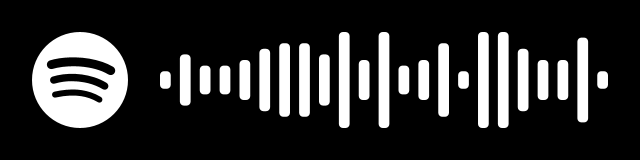
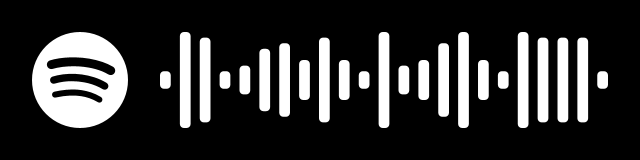
Need picture to show

diff --git a/Curretnly Working/barcodeOut.html b/Curretnly Working/barcodeOut.html
@@ -31,7 +31,7 @@
       <p>The playlist is ready!
         Scan the barcode with your mobile Spotify app to go listen to it!
       </p>
-      <img src="./sample_image.png" width="400" height="100"alt="The playlist barcode">
+      <img src="sample_image.png" width="400" height="100"alt="The playlist barcode">
     <!--  <button><strong>AUTHORIZE</strong></button> -->
   </body>
 </html>

diff --git a/Curretnly Working/app.py b/Curretnly Working/app.py
@@ -13,6 +13,8 @@ from xml.dom import minidom
 import xml.etree.ElementTree as ET
 from datetime import date
 from flask import Flask, redirect, request
+import requests as req
+import shutil
 
 client_id = '46c1cfc8247e4267b8f5516f9a61affc'
 client_secret = '704027695cb84a95b86351d933d63acd'
@@ -84,7 +86,7 @@ def getBarCode(playlistID):
     file.write(response.content)
     file.close()
 
-def getNewPlaylistID():
+def getNewPlaylistID(usr1, username1):
     id = str(usr1.user_playlists(username1)['items'][0]['uri'])
     id = id.split(':')
     id = id[2]
@@ -151,6 +153,8 @@ def signup():
     New_usr1 = usr1.user_playlist_create(username1, name = "New Shared Playlist",
                                         public = True, collaborative = False)['uri']
     usr1.user_playlist_add_tracks(username1, New_usr1, trackIDs)
+
+    getBarCode(getNewPlaylistID(usr1, username1))
 
     return redirect('/output')
 
